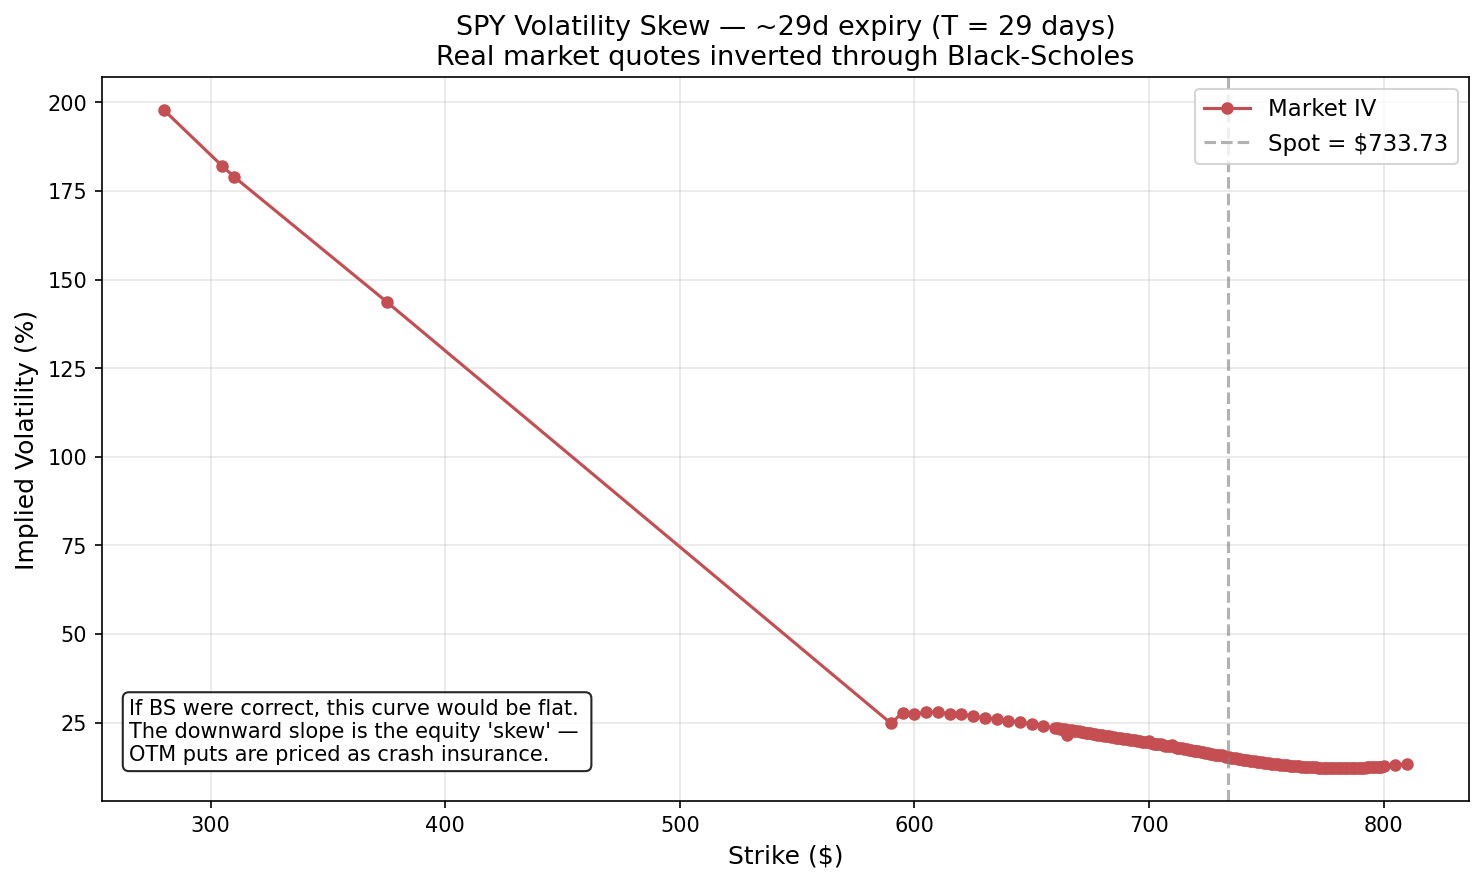
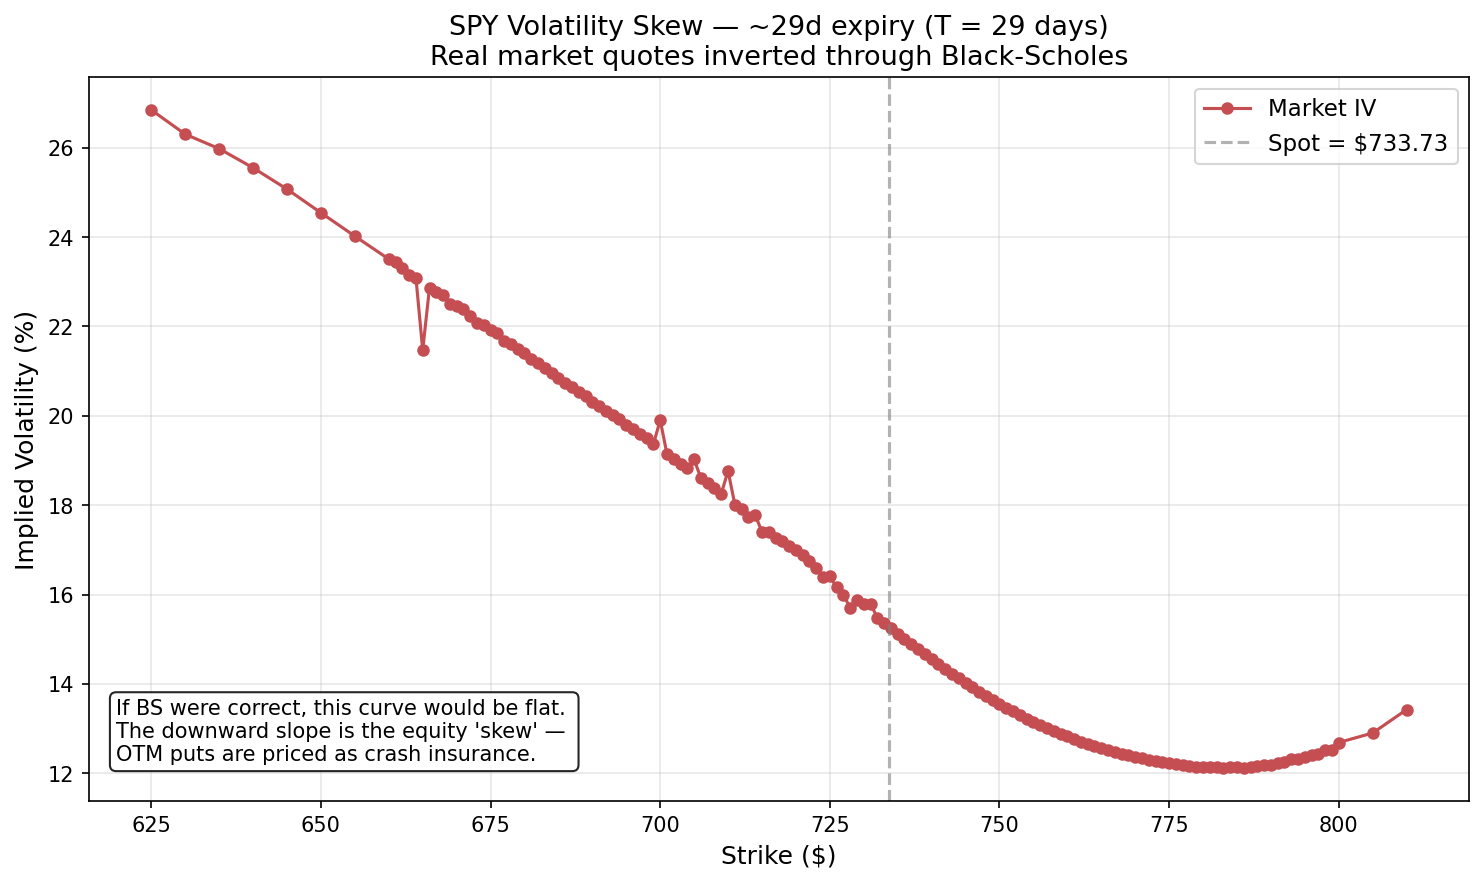
Day 4: SPY volatility skew from real market option chain

diff --git a/vol_smile.py b/vol_smile.py
@@ -93,15 +93,21 @@ def compute_smile(calls_df, spot: float, T: float, r: float):
         # ----- Filter 1: skip if bid is too low (illiquid) -----
         if bid < MIN_BID:
             continue
+        # ----- Filter 2: skip strikes outside the liquid, informative range -----
+        # Deep ITM/OTM have tiny vega → IV inversion amplifies tiny price errors
+        # into huge IV noise. Industry convention: limit to ~0.85 ≤ K/S ≤ 1.15.
+        moneyness = strike / spot
+        if moneyness < 0.85 or moneyness > 1.15:
+            continue
 
-        # ----- Filter 2: skip if spread is too wide -----
+        # ----- Filter 3: skip if spread is too wide -----
         mid = (bid + ask) / 2
 
         spread_ratio = (ask - bid) / mid if mid > 0 else float("inf")
         if spread_ratio > MAX_SPREAD_RATIO:
             continue
 
-        # ----- Filter 3: skip prices outside arbitrage bounds -----
+        # ----- Filter 4: skip prices outside arbitrage bounds -----
         # The IV solver itself will raise ValueError if so; we catch and skip.
         try:
             iv = implied_vol_newton(
@@ -118,7 +124,7 @@ def compute_smile(calls_df, spot: float, T: float, r: float):
             # RuntimeError = solver failed to converge
             continue
 
-        # ----- Filter 4: drop absurd IV values (data errors) -----
+        # ----- Filter 5: drop absurd IV values (data errors) -----
         if iv < 0.01 or iv > 3.0:
             continue
 
@@ -181,14 +187,9 @@ if __name__ == "__main__":
     calls, spot, T = fetch_chain(TICKER, TARGET_DAYS_TO_EXPIRY)
 
     print(f"Number of calls in chain: {len(calls)}")
+    strikes, ivs = compute_smile(calls, spot, T, RISK_FREE_RATE)
 
-    strikes, ivs = compute_smile(
-        calls,
-        spot,
-        T,
-        RISK_FREE_RATE,
-    )
-
+    
     print(f"After filtering: {len(strikes)} viable strikes\n")
 
     if len(strikes) < 5:
